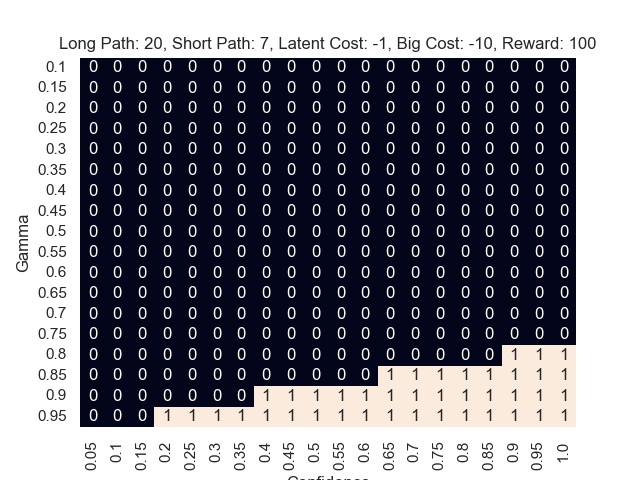
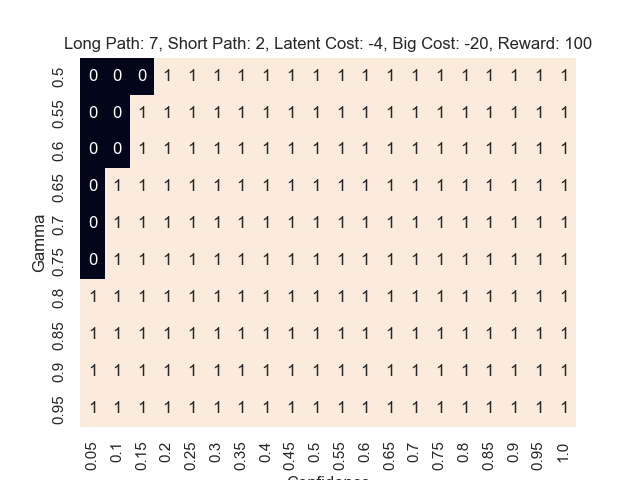
Added some MSE experiments

diff --git a/myopicvsconfidence.py b/myopicvsconfidence.py
@@ -11,23 +11,29 @@ setup_name = setup_name.replace(' ', '_').lower()
 if not os.path.exists(f'images/{setup_name}'):
    os.makedirs(f'images/{setup_name}')
 
-length = 27
-starting_state = 20
+length = 10
+starting_state = 7
 reward_mag = 100
-big_cost = -10
-latent_cost = -1
+small_reward_mag = -1
+big_cost = -20
+latent_cost = -4
 rewards_dict = {}
 
 for i in range(length):
     rewards_dict[i] = latent_cost
 
-for i in range(starting_state, length):
+for i in range(starting_state+1, length):
     rewards_dict[i] = big_cost
+
+if small_reward_mag != -1:
+    rewards_dict[0] = small_reward_mag
+else:
+    rewards_dict[0] = reward_mag
 rewards_dict[length - 1] = reward_mag
-rewards_dict[0] = reward_mag
+
 
 choices = []
-gammas = np.arange(0.1, 0.99, 0.05)
+gammas = np.arange(0.5, 0.995, 0.05)
 probs = np.arange(0.05, 1.001, 0.05)
 
 for gamma in gammas:
@@ -48,7 +54,7 @@ choices_df = pd.DataFrame(choices, columns=probs)
 choices_df.index = gammas
 
 hmap = sns.heatmap(choices_df, annot=True, fmt='', cbar=False, cbar_kws={'label': 'Choice'})
-title = f'Long Path: {starting_state}, Short Path: {length-starting_state}, Latent Cost: {latent_cost}, Big Cost: {big_cost}, Reward: {reward_mag}'
+title = f'Long Path: {starting_state}, Short Path: {length-starting_state-1}, Latent Cost: {latent_cost}, Big Cost: {big_cost}, Reward: {reward_mag}'
 hmap.set(xlabel='Confidence', ylabel='Gamma', title=title)
 hmap = hmap.figure
 plt.savefig(f'images/{setup_name}/summary.png')

diff --git a/wall_mse.py b/wall_mse.py
@@ -5,16 +5,31 @@ import pandas as pd
 default_prob = 0.8
 default_gamma = 0.9
 sns.set()
-setup_name = 'Simple'
+setup_name = 'Wall_MSE'
 setup_name = setup_name.replace(' ', '_').lower()
 
 if not os.path.exists(f'images/{setup_name}'):
    os.makedirs(f'images/{setup_name}')
 
 length = 10
+starting_state = 7
 reward_mag = 100
+small_reward_mag = -1
+big_cost = -20
+latent_cost = -4
 rewards_dict = {}
-rewards_dict[length-1] = reward_mag
+
+for i in range(length):
+    rewards_dict[i] = latent_cost
+
+for i in range(starting_state+1, length):
+    rewards_dict[i] = big_cost
+
+if small_reward_mag != -1:
+    rewards_dict[0] = small_reward_mag
+else:
+    rewards_dict[0] = reward_mag
+rewards_dict[length - 1] = reward_mag
 
 mses = []
 gammas = np.arange(0.8, 0.999, 0.015)
@@ -41,7 +56,7 @@ mses_df = pd.DataFrame(mses, columns=probs)
 mses_df.index = gammas
 
 hmap = sns.heatmap(mses_df, annot=True, fmt='', cbar=True, cbar_kws={'label': 'MSE'}, annot_kws={"size": 35 / np.sqrt(len(mses_df))})
-title = f'Length: {length}, Reward: {reward_mag}, Default Gamma: {default_gamma}, Default Prob: {default_prob}'
+title = f'Long Path: {starting_state}, Short Path: {length-starting_state-1}, Latent Cost: {latent_cost}, Big Cost: {big_cost}, Reward: {reward_mag}'
 hmap.set(xlabel='Confidence', ylabel='Gamma', title=title)
 hmap = hmap.figure
 plt.savefig(f'images/{setup_name}/summary.png')
